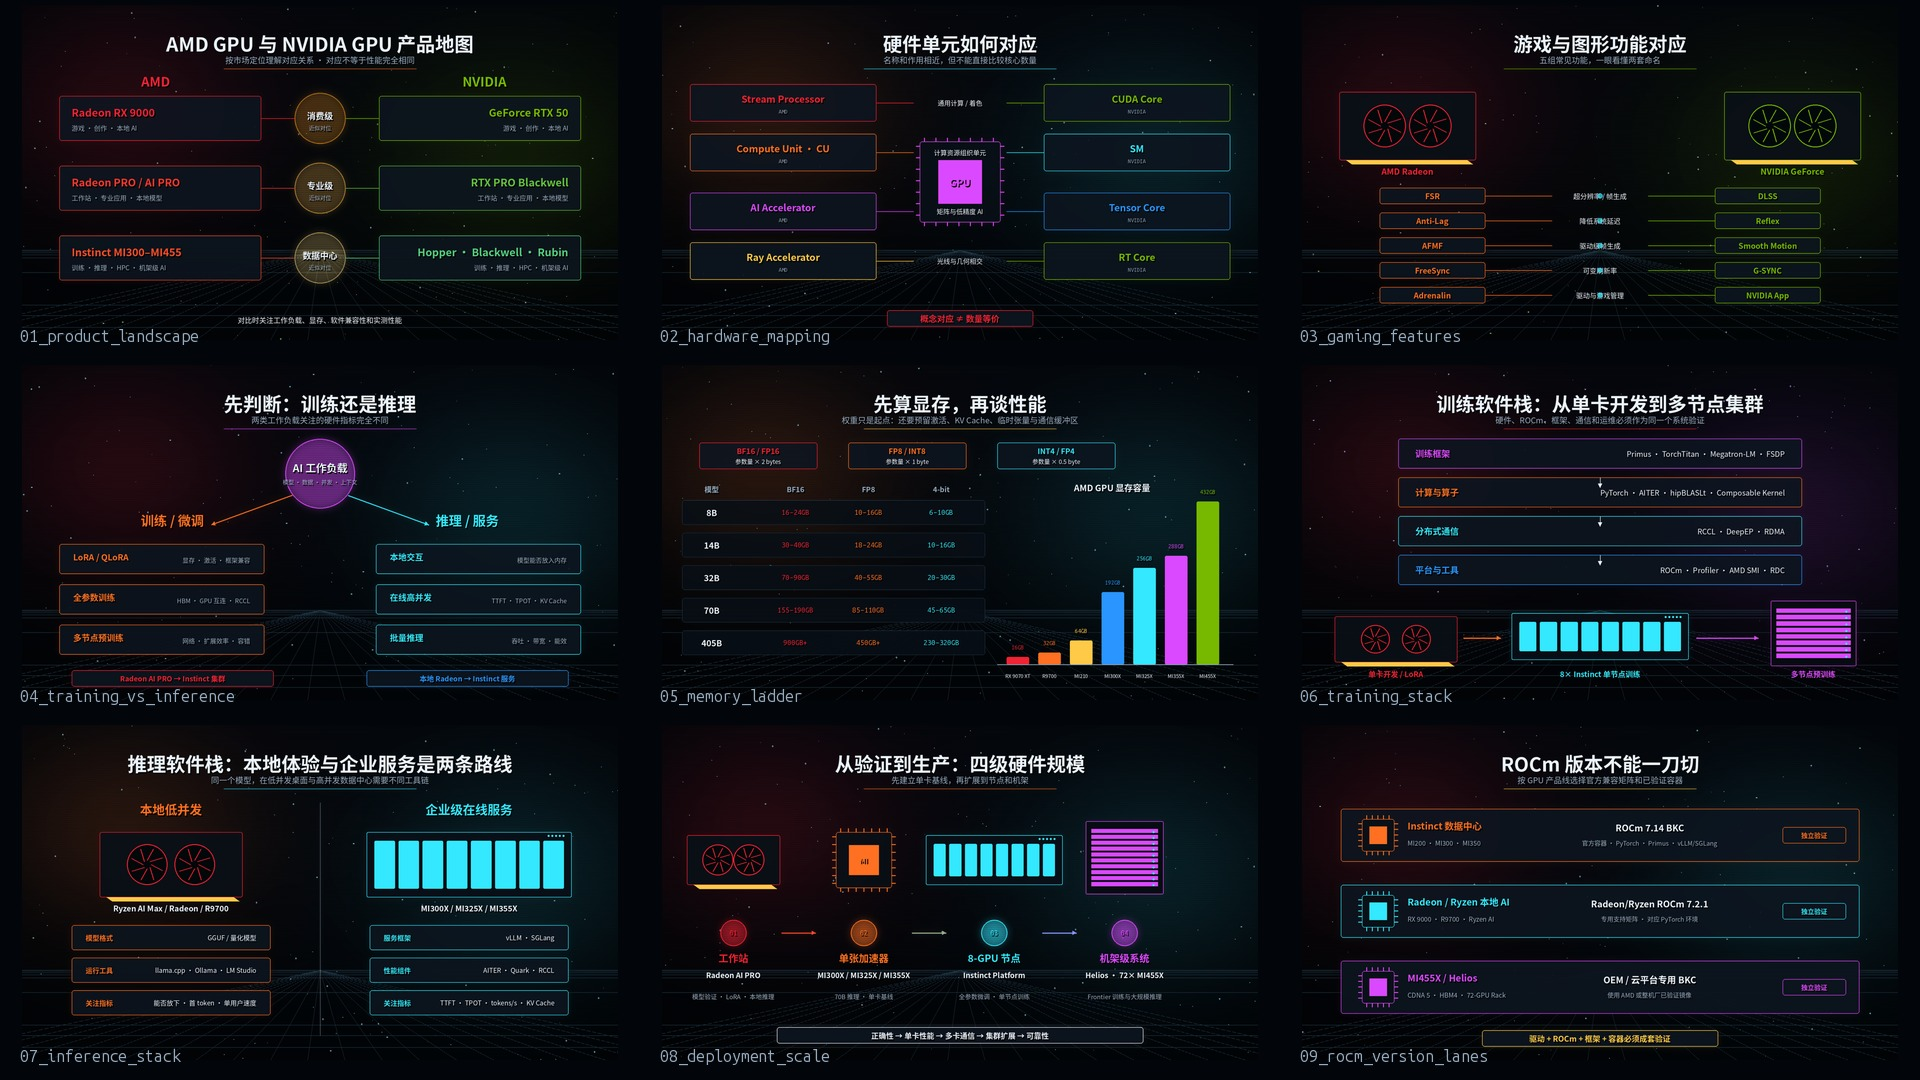
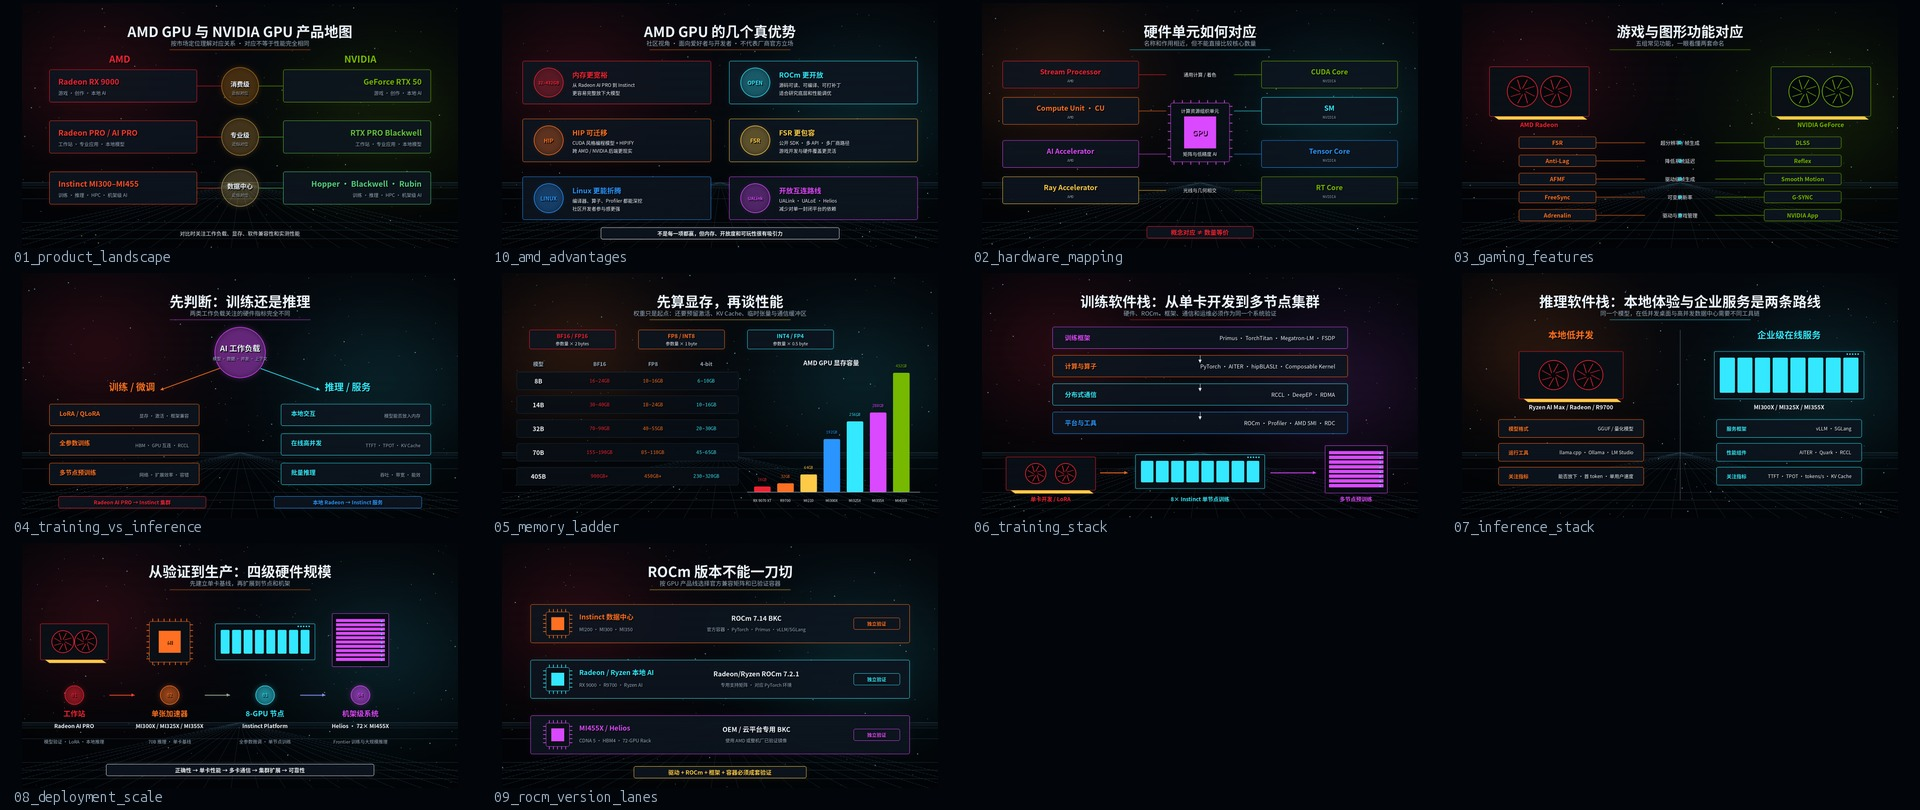
Add community perspective on AMD GPU advantages

diff --git a/bilibili/amd-nvidia-gpu-mapping/generate_gpu_mapping_visuals.py b/bilibili/amd-nvidia-gpu-mapping/generate_gpu_mapping_visuals.py
@@ -415,6 +415,81 @@ def frame_product_map() -> Image.Image:
     return image
 
 
+def frame_amd_advantages() -> Image.Image:
+    image = background(151, AMD_RED, CYAN)
+    centered_title(
+        image,
+        "AMD GPU 的几个真优势",
+        "社区视角 · 面向爱好者与开发者 · 不代表厂商官方立场",
+        AMD_ORANGE,
+    )
+    cards = [
+        (
+            "内存更宽裕",
+            "从 Radeon AI PRO 到 Instinct\n更容易完整放下大模型",
+            "32–432GB",
+            AMD_RED,
+            90,
+            255,
+        ),
+        (
+            "ROCm 更开放",
+            "源码可读、可编译、可打补丁\n适合研究底层和性能调优",
+            "OPEN",
+            CYAN,
+            1000,
+            255,
+        ),
+        (
+            "HIP 可迁移",
+            "CUDA 风格编程模型 + HIPIFY\n跨 AMD / NVIDIA 后端更现实",
+            "HIP",
+            AMD_ORANGE,
+            90,
+            510,
+        ),
+        (
+            "FSR 更包容",
+            "公开 SDK · 多 API · 多厂商路径\n游戏开发与硬件覆盖更灵活",
+            "FSR",
+            YELLOW,
+            1000,
+            510,
+        ),
+        (
+            "Linux 更能折腾",
+            "编译器、算子、Profiler 都能深挖\n社区开发者参与感更强",
+            "LINUX",
+            BLUE,
+            90,
+            765,
+        ),
+        (
+            "开放互连路线",
+            "UALink · UALoE · Helios\n减少对单一封闭平台的依赖",
+            "UALink",
+            MAGENTA,
+            1000,
+            765,
+        ),
+    ]
+    for title_value, detail, icon, color, x, y in cards:
+        neon_rect(image, (x, y, x + 830, y + 190), color, fill_alpha=218)
+        neon_circle(image, (x + 115, y + 95), 65, color, fill_alpha=45)
+        text(image, (x + 115, y + 95), icon, f_bold(19 if len(icon) > 5 else 24), color, anchor="mm")
+        text(image, (x + 220, y + 60), title_value, f_bold(31), color, anchor="lm")
+        text(image, (x + 220, y + 124), detail, f_regular(21), WHITE, anchor="lm", spacing=10)
+    label_pill(
+        image,
+        (960, 1015),
+        "不是每一项都赢，但内存、开放度和可玩性很有吸引力",
+        WHITE,
+        1050,
+        23,
+    )
+    return image
+
+
 def frame_hardware_mapping() -> Image.Image:
     image = background(202, AMD_ORANGE, CYAN)
     centered_title(
@@ -738,27 +813,31 @@ def frame_rocm_versions() -> Image.Image:
 
 
 def make_contact_sheet(paths: list[Path]) -> Path:
+    columns = 4 if len(paths) > 9 else 3
+    tile_width = 1920 // columns
+    tile_height = 270 if columns == 4 else 360
     thumbs: list[Image.Image] = []
     for path in paths:
         image = Image.open(path).convert("RGB")
-        image.thumbnail((620, 335), Image.Resampling.LANCZOS)
-        canvas = Image.new("RGBA", (640, 360), rgba(BLACK))
-        canvas.paste(image, ((640 - image.width) // 2, 5))
+        image.thumbnail((tile_width - 20, tile_height - 25), Image.Resampling.LANCZOS)
+        canvas = Image.new("RGBA", (tile_width, tile_height), rgba(BLACK))
+        canvas.paste(image, ((tile_width - image.width) // 2, 3))
         text(
             canvas,
-            (20, 342),
+            (14, tile_height - 8),
             path.stem,
-            f_mono(16),
+            f_mono(14),
             MUTED,
             anchor="ls",
             shadow=False,
         )
         thumbs.append(canvas.convert("RGB"))
 
-    sheet = Image.new("RGB", (1920, 1080), BLACK)
+    rows = math.ceil(len(thumbs) / columns)
+    sheet = Image.new("RGB", (columns * tile_width, rows * tile_height), BLACK)
     for index, thumb in enumerate(thumbs):
-        x = (index % 3) * 640
-        y = (index // 3) * 360
+        x = (index % columns) * tile_width
+        y = (index // columns) * tile_height
         sheet.paste(thumb, (x, y))
     path = OUTPUT_DIR / "gpu_mapping_visuals_contact_sheet.jpg"
     sheet.save(path, quality=92, optimize=True)
@@ -768,6 +847,7 @@ def make_contact_sheet(paths: list[Path]) -> Path:
 def main() -> None:
     frames = [
         ("01_product_landscape.png", frame_product_map),
+        ("10_amd_advantages.png", frame_amd_advantages),
         ("02_hardware_mapping.png", frame_hardware_mapping),
         ("03_gaming_features.png", frame_gaming_features),
         ("04_training_vs_inference.png", frame_workload_decision),

diff --git a/bilibili/amd-nvidia-gpu-mapping/VIDEO_VISUALS_CN.md b/bilibili/amd-nvidia-gpu-mapping/VIDEO_VISUALS_CN.md
@@ -9,14 +9,15 @@
 | 顺序 | 图片 | 建议时长 | 对应口播内容 |
 |---|---|---:|---|
 | 1 | `01_product_landscape.png` | 8-12 秒 | Radeon RX 对应 GeForce RTX，Radeon PRO 对应 RTX PRO，Instinct 对应 NVIDIA 数据中心 GPU |
-| 2 | `02_hardware_mapping.png` | 8-10 秒 | Stream Processor、CU、AI Accelerator 和 Ray Accelerator 的概念对应 |
-| 3 | `03_gaming_features.png` | 8-12 秒 | FSR/DLSS、Anti-Lag/Reflex、AFMF/Smooth Motion、FreeSync/G-SYNC |
-| 4 | `04_training_vs_inference.png` | 10-14 秒 | 解释训练与推理关注的指标不同 |
-| 5 | `05_memory_ladder.png` | 12-18 秒 | 解释不同精度的模型权重和显存容量估算 |
-| 6 | `09_rocm_version_lanes.png` | 10-14 秒 | 区分 Instinct、Radeon/Ryzen 和 MI455X 的软件版本路线 |
-| 7 | `06_training_stack.png` | 10-14 秒 | 训练栈：PyTorch、Primus、RCCL、AITER、Profiler |
-| 8 | `07_inference_stack.png` | 10-14 秒 | 本地 llama.cpp/Ollama 与企业 vLLM/SGLang 两条推理路线 |
-| 9 | `08_deployment_scale.png` | 10-14 秒 | 从工作站、单卡、8-GPU 节点扩展到 Helios 机架系统 |
+| 2 | `10_amd_advantages.png` | 10-15 秒 | 社区视角总结 AMD 在内存、开放软件栈、HIP、FSR、Linux 和开放互连方面的优势 |
+| 3 | `02_hardware_mapping.png` | 8-10 秒 | Stream Processor、CU、AI Accelerator 和 Ray Accelerator 的概念对应 |
+| 4 | `03_gaming_features.png` | 8-12 秒 | FSR/DLSS、Anti-Lag/Reflex、AFMF/Smooth Motion、FreeSync/G-SYNC |
+| 5 | `04_training_vs_inference.png` | 10-14 秒 | 解释训练与推理关注的指标不同 |
+| 6 | `05_memory_ladder.png` | 12-18 秒 | 解释不同精度的模型权重和显存容量估算 |
+| 7 | `09_rocm_version_lanes.png` | 10-14 秒 | 区分 Instinct、Radeon/Ryzen 和 MI455X 的软件版本路线 |
+| 8 | `06_training_stack.png` | 10-14 秒 | 训练栈：PyTorch、Primus、RCCL、AITER、Profiler |
+| 9 | `07_inference_stack.png` | 10-14 秒 | 本地 llama.cpp/Ollama 与企业 vLLM/SGLang 两条推理路线 |
+| 10 | `08_deployment_scale.png` | 10-14 秒 | 从工作站、单卡、8-GPU 节点扩展到 Helios 机架系统 |
 
 ## 剪辑建议
 
@@ -36,6 +37,6 @@ cd bilibili/amd-nvidia-gpu-mapping
 python3 generate_gpu_mapping_visuals.py
 ```
 
-脚本会重新生成 9 张 4K PNG 和一张九宫格预览：
+脚本会重新生成 10 张 4K PNG 和一张总览预览图：
 
 `gpu_mapping_visuals_contact_sheet.jpg`
